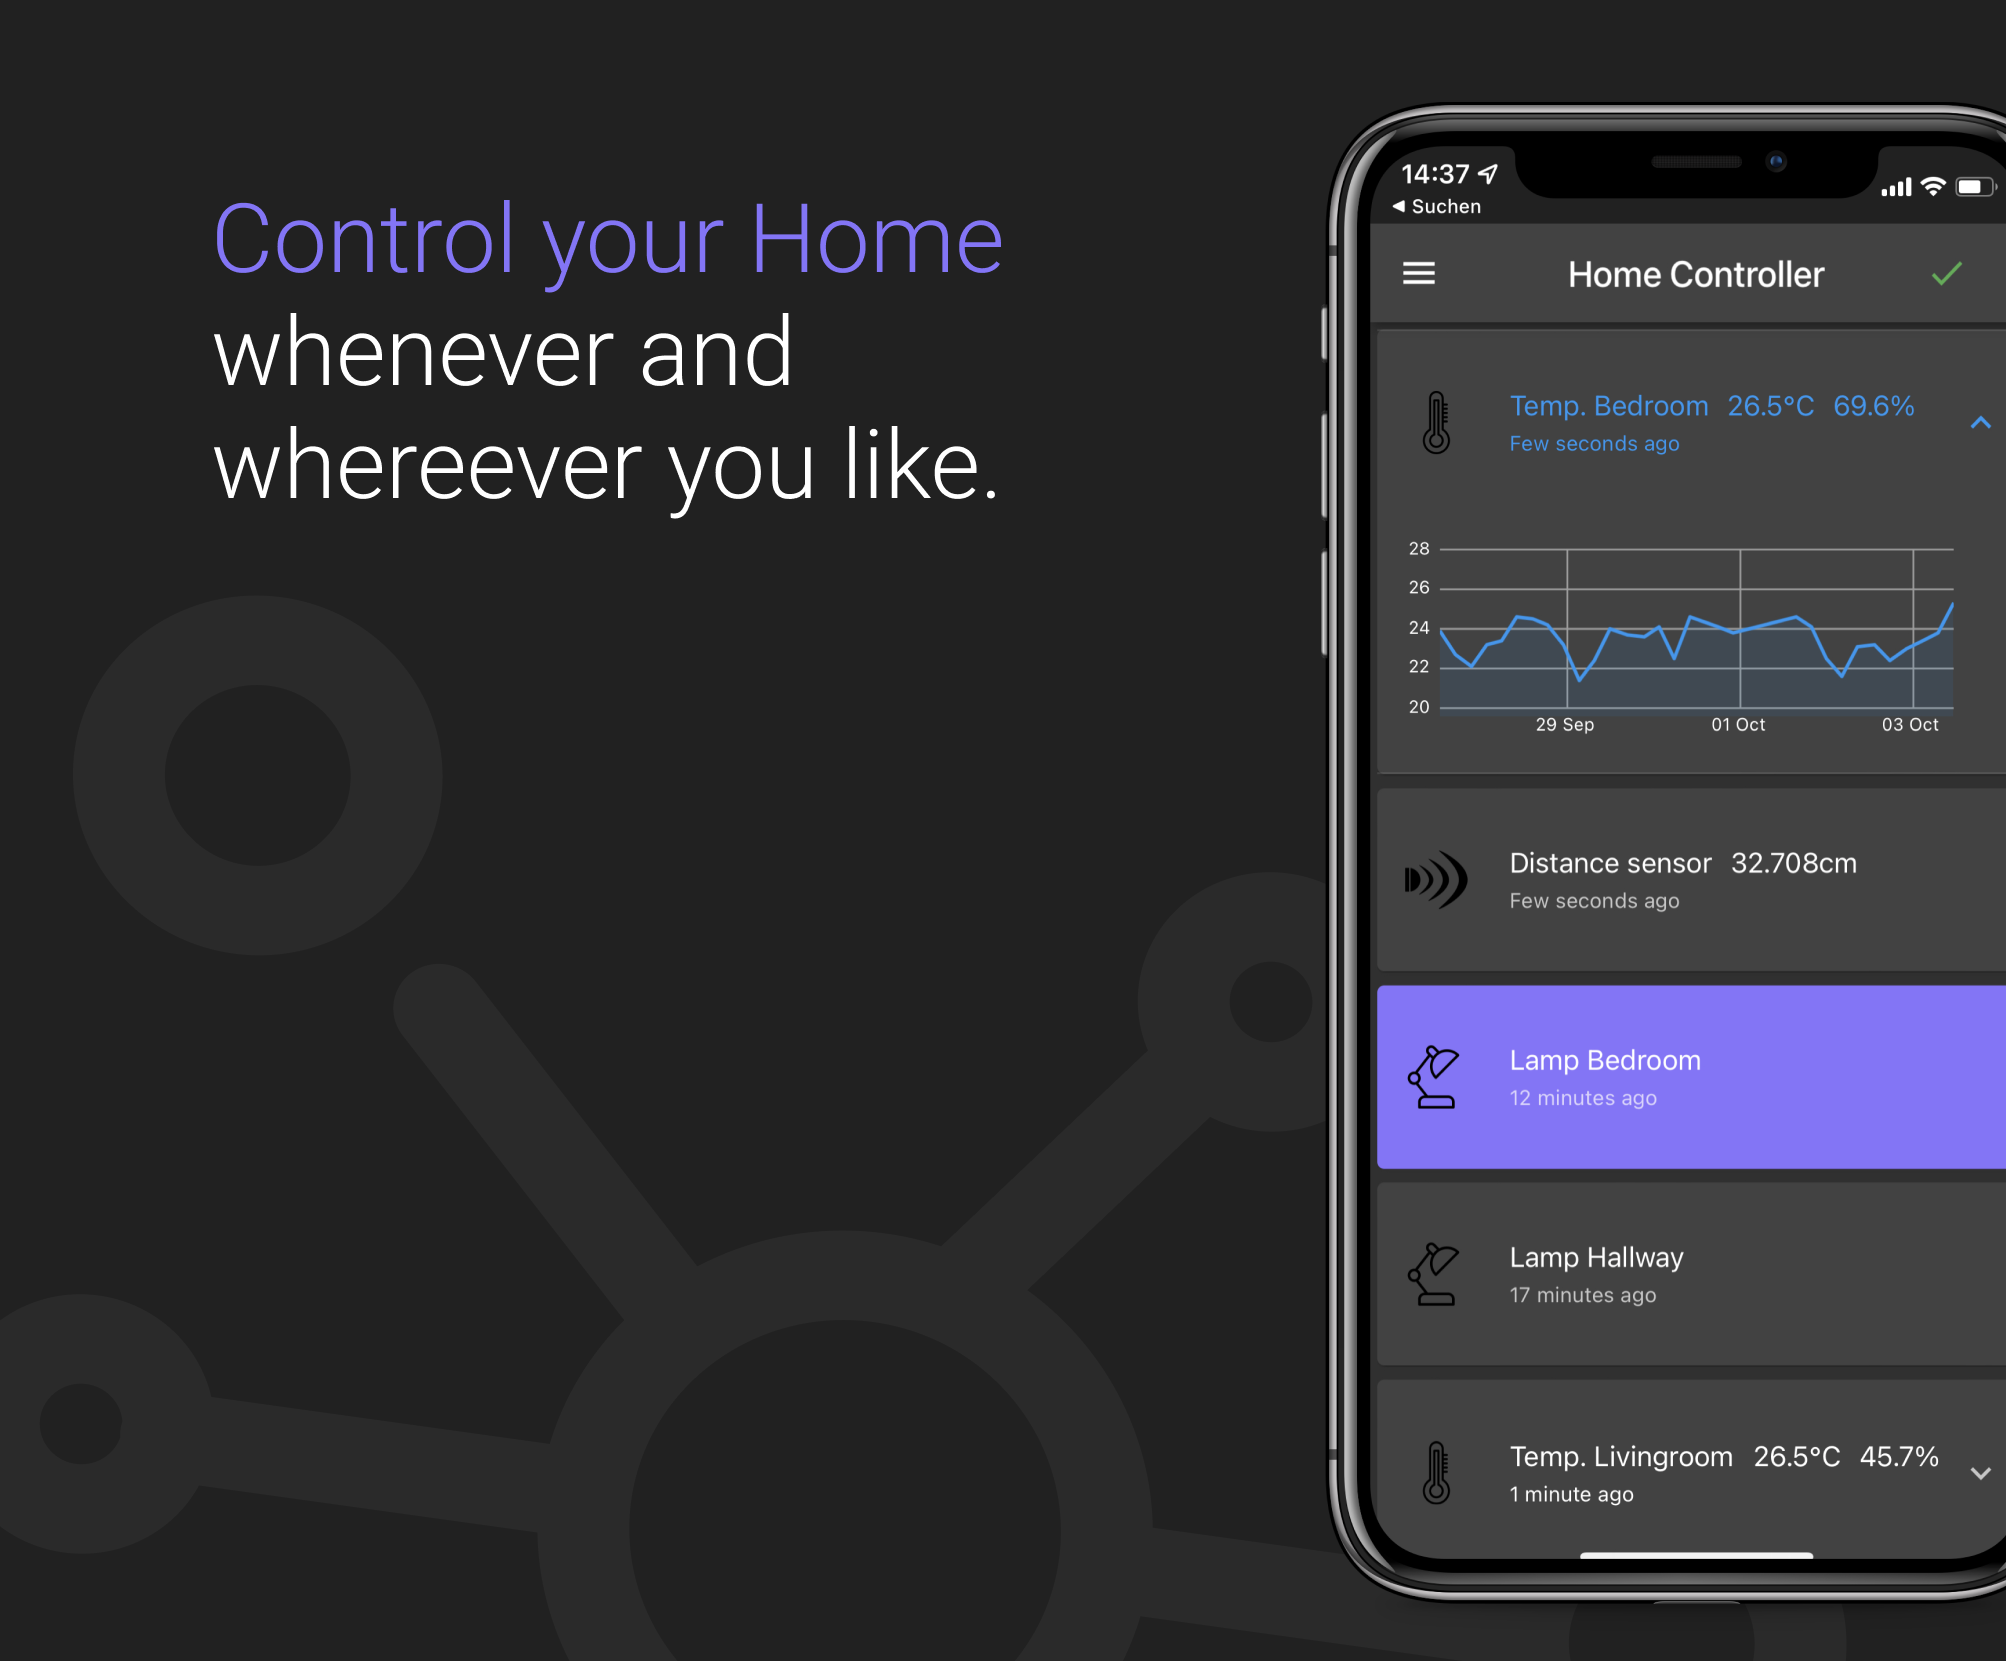
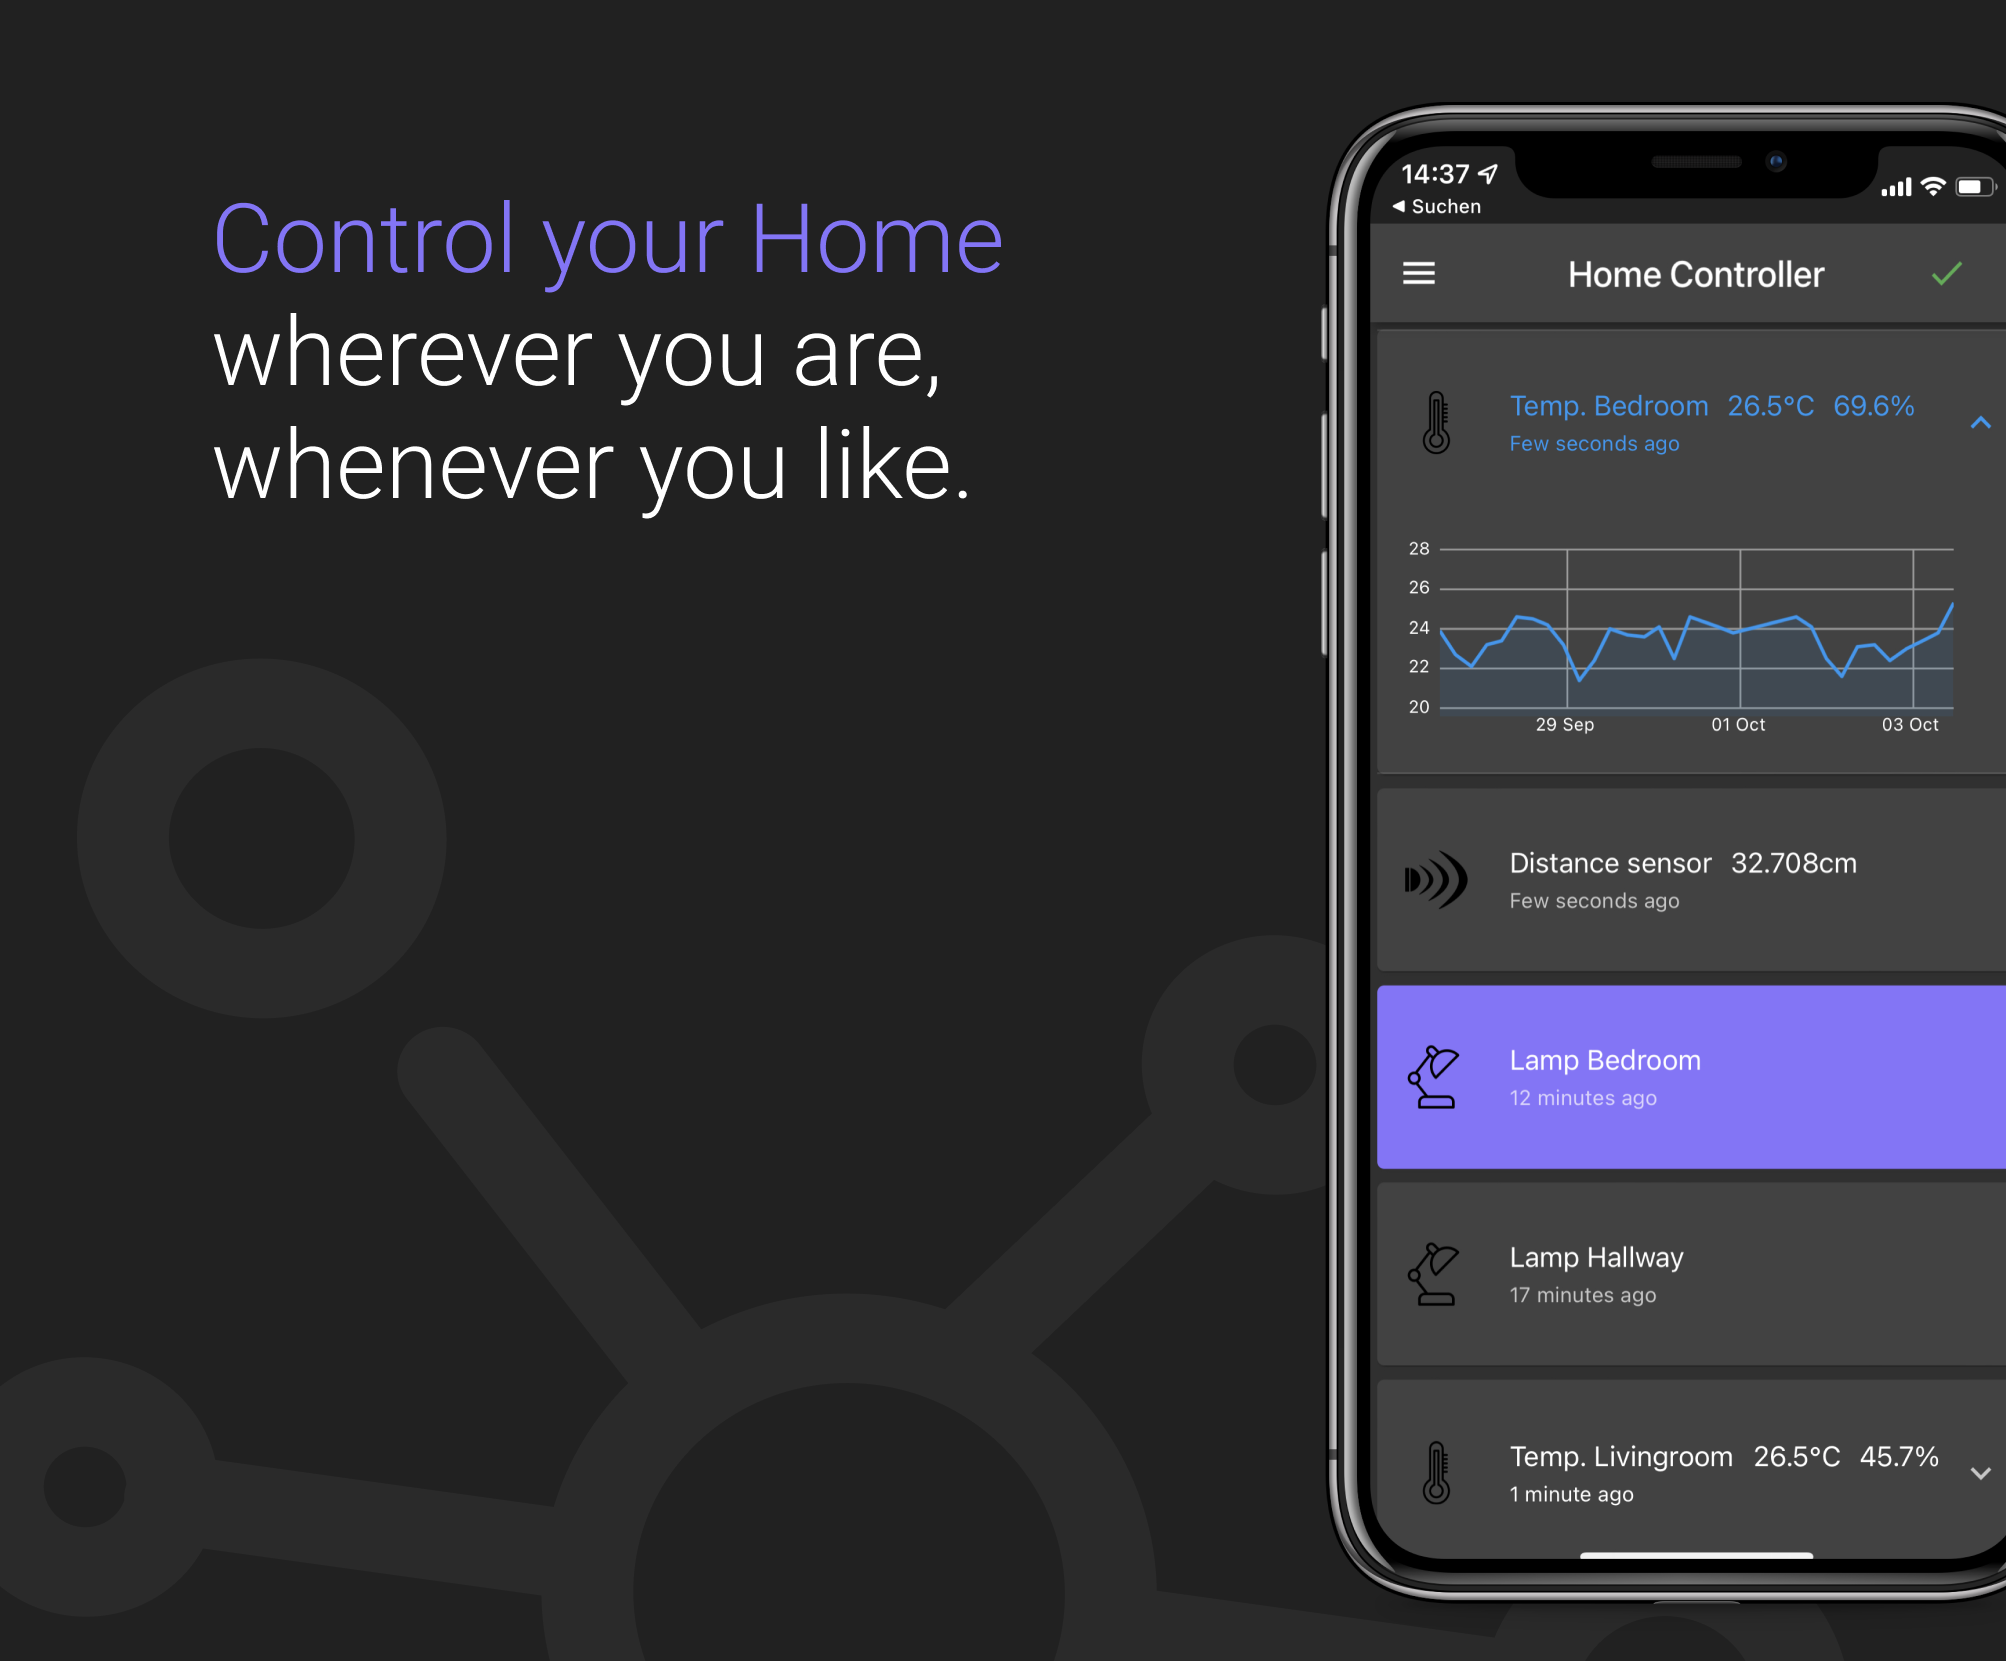
Fix readme

Changed region(s): [[0.2164, 0.1842, 0.4945, 0.307]]

diff --git a/README.md b/README.md
@@ -1,6 +1,6 @@
 #  IoT Platform
 
->  An IoT platform that gives you control over you devices, wherever you are, whenever you like
+>  An IoT platform that gives you control over you devices, wherever you are, whenever you like.
 
 ![Promo picture](./screenshots/client_promo.png "Promo picture")
 
